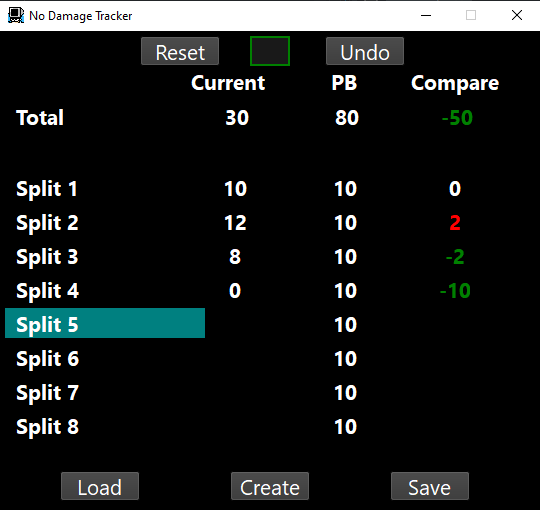
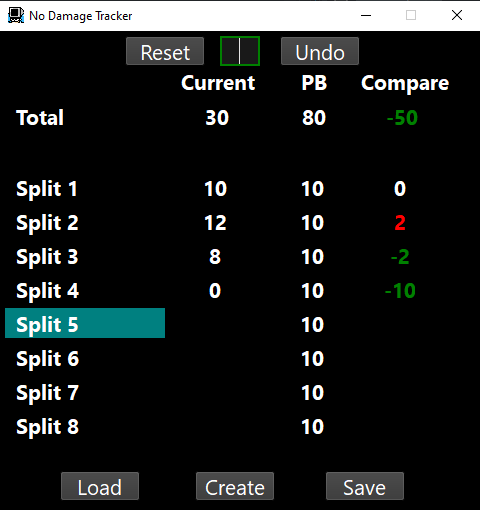
update

diff --git a/track.py b/track.py
@@ -11,26 +11,28 @@ logging.basicConfig(level=logging.DEBUG,
 
 THIS_FILEPATH = os.path.realpath(os.path.dirname(sys.argv[0]))
 
-DEBUG = True
+DEBUG = False
 
 
 
 
 class QMainWindow2(QMainWindow):
-    if not DEBUG:
-        def closeEvent(self,event):
-            result = QMessageBox.question(self,
-                          "Confirm exit", 
-                          "Confirm exit? Save splits manually before closing.",
-                          QMessageBox.Yes| QMessageBox.No)
-            event.ignore()
+    # if not DEBUG:
+    #     def closeEvent(self,event):
+    #         result = QMessageBox.question(self,
+    #                       "Confirm exit", 
+    #                       "Confirm exit? Save splits manually before closing.",
+    #                       QMessageBox.Yes| QMessageBox.No)
+    #         event.ignore()
     
-            if result == QMessageBox.Yes:
-                event.accept()
+    #         if result == QMessageBox.Yes:
+    #             event.accept()
+    pass
+
 
 class MainWindow(object):
     
-    size = 2
+    size = 1
     
     if size == 1:
         SCREEN_HEIGHT = 480
